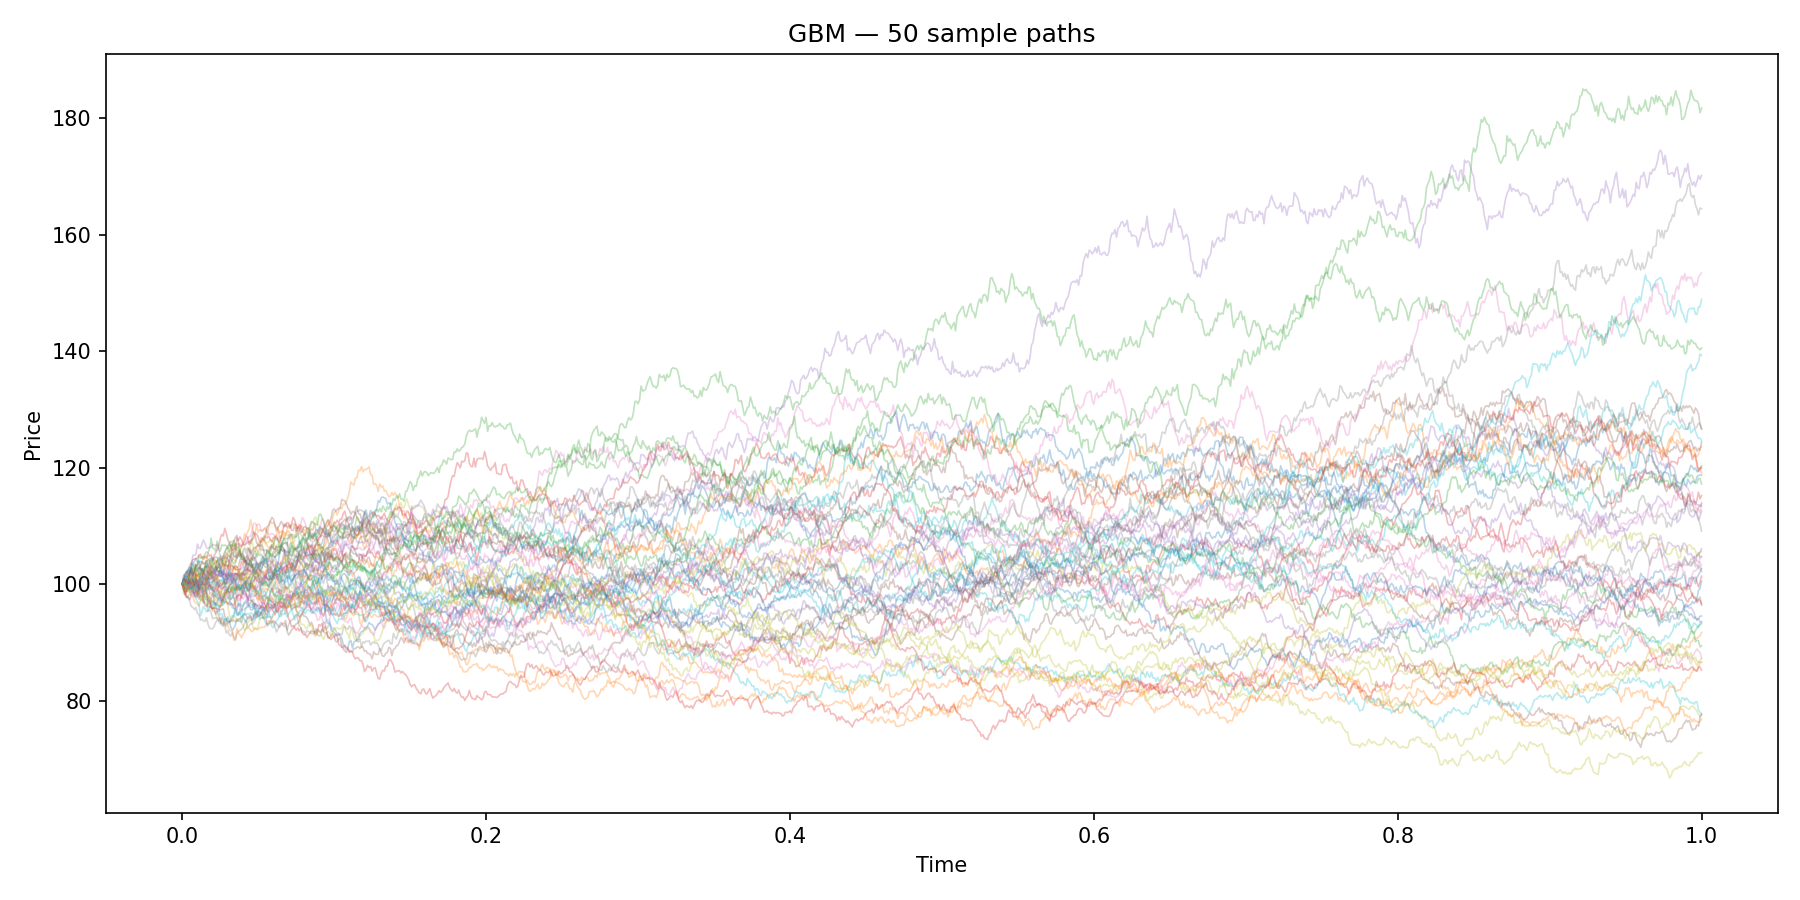
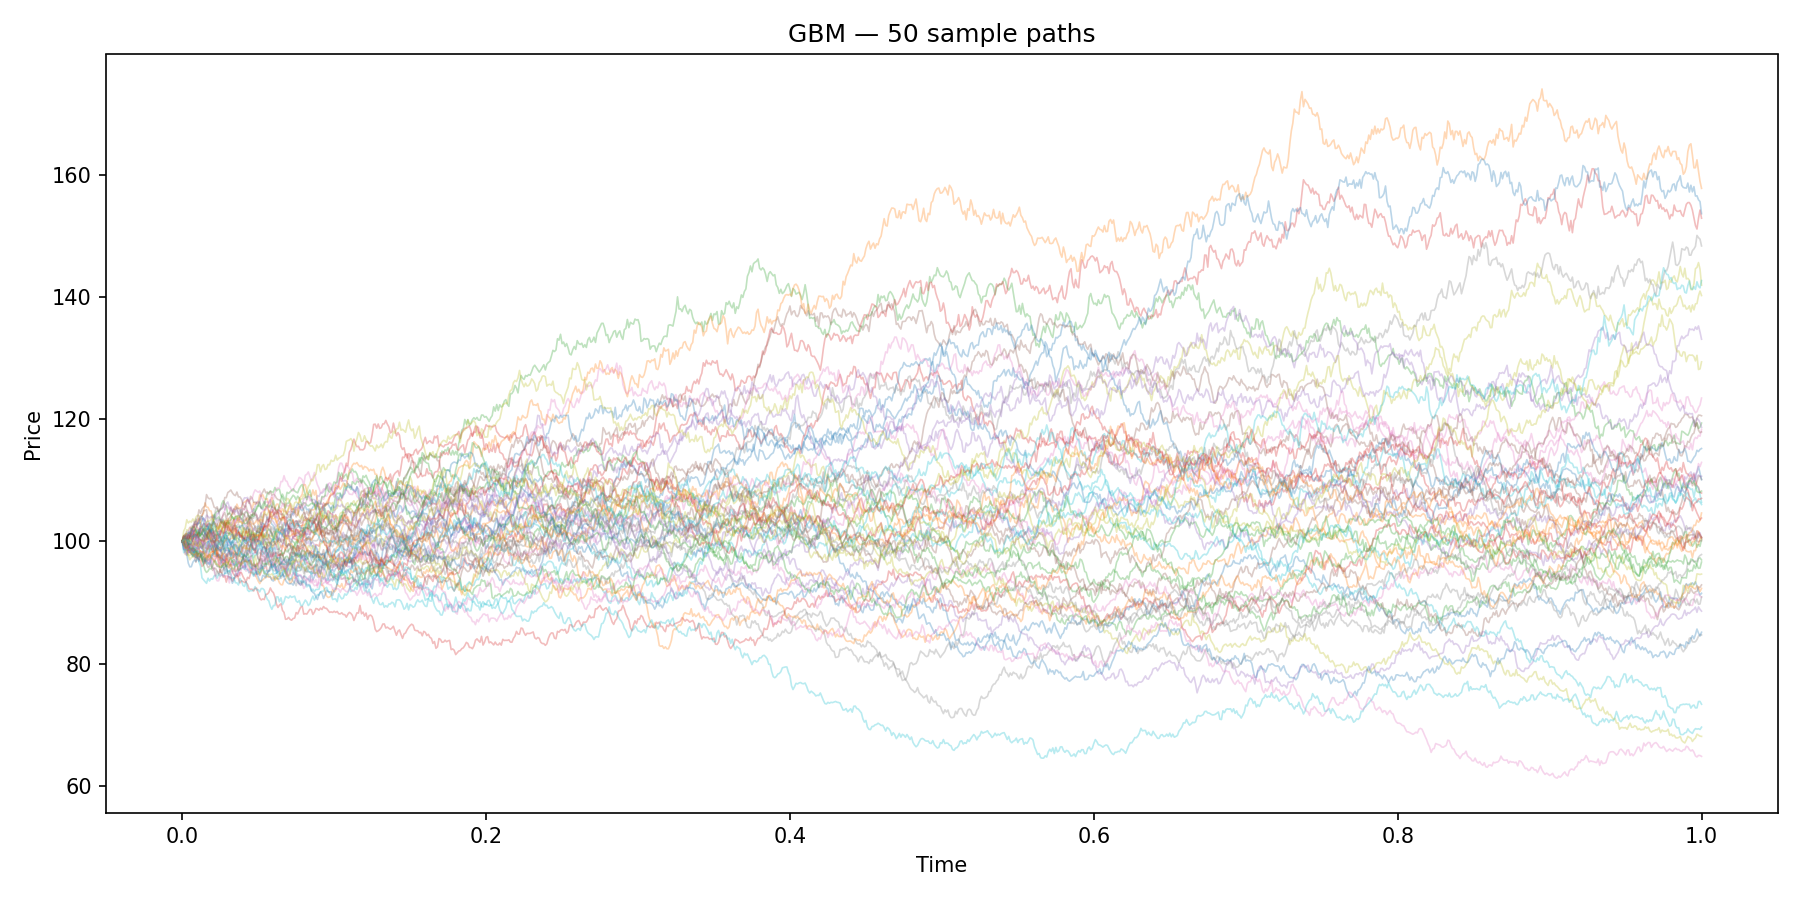
docs: correct DQN-vs-LSM analysis — mis-set discount factor (gamma=0.99/step ≈ 253%/yr vs r=5%) and undiscounted eval metric; update README, fix module names and typos

diff --git a/README.md b/README.md
@@ -2,7 +2,7 @@
 
 This project started as an attempt to understand something I kept encountering at the edges of my coursework: the idea that stochastic calculus and reinforcement learning are, in some deep sense, talking about the same thing. 
 
-I want to be honest about where I started. To say I had a working knowledge of GBM and martingales is an overstatement— my knowledge was no more than several semi-successful Clause prompts asking to explain Chapter 5 of Xinfeng Zhou's "A Practical Guide to Quanititaive Finance Interviews" in **even more** detail. I'd implemented basic Q-learning agents in college coursework previously, but I'd never thought carefully about *why* importance sampling works in off-policy RL, or what it has to do with changing probability measures. This project is my attempt to close that gap.
+I want to be honest about where I started. To say I had a working knowledge of GBM and martingales is an overstatement— my knowledge was no more than several semi-successful Claude prompts asking to explain Chapter 5 of Xinfeng Zhou's "A Practical Guide to Quantitative Finance Interviews" in **even more** detail. I'd implemented basic Q-learning agents in college coursework previously, but I'd never thought carefully about *why* importance sampling works in off-policy RL, or what it has to do with changing probability measures. This project is my attempt to close that gap.
 
 ---
 
@@ -13,6 +13,8 @@ The project is organized into five modules.
 1. Implementation of Brownian motion and Geometric Brownian Motion using NumPy. I then implemented the Ornstein-Uhlenbeck process, which required a time-step loop because it has no clean closed form. I wish I could promise that my experiments became sharper and sharper, but the contrast between the two plots — GBM wandering off to infinity versus OU oscillating around its long-run mean — is the clearest visual in the entire project.
 
 2. From there I built a Gymnasium environment for American option pricing and trained a DQN agent to solve the optimal stopping problem. The agent's job is simple: at each time step, decide whether to exercise the put or keep holding. The DQN recovered 93.3% of the Longstaff-Schwartz benchmark price ($5.62 vs $6.02) without ever being told the structure of the problem. It learned the stopping rule purely from experience. Unfortunately, this did not feel like the 'win' it likely should have. I'd prefer to do better than the LS benchmark, but I guess you can't win them all.
+
+   **Update (Aug 2026):** a code review found the real culprit behind the gap, and it wasn't undertraining. I had set `gamma=0.99` *per daily step* — an implied discount rate of −252·ln(0.99) ≈ 253%/yr, roughly 50× the model's r = 5%. The agent's suspiciously early exercise (mean episode length ~9 steps of 252) was it *optimally* solving the problem I actually gave it: one where waiting costs ~1% a day. On top of that, the evaluation compared undiscounted DQN payoffs against LSM's discounted price — two different objects. Dated correction and rerun queue in `experiments/dqn_vs_lsm/RESULTS.md`. It turns out you can win some of them back by rereading your own code.
 
 3. The hedging module— a continuous-action Gymnasium environment where a PPO agent learns how many shares to hold to neutralize option risk. The benchmark is Black-Scholes delta hedging. After 500k training timesteps, the PPO agent had a mean P&L of -0.37 compared to Black-Scholes's -2.15, but a standard deviation of 9.08 versus 1.24. The RL agent's higher mean is flattering but misleading— what matters for a hedger is variance, and by that measure Black-Scholes wins by a factor of seven. Ouch.
 
@@ -26,7 +28,7 @@ The project is organized into five modules.
 
 A few results stood out.
 
-The DQN's Q-function, at convergence, approximates the Snell envelope— the smallest supermartingale dominating the payoff function. I didn't set out to verify this formally, but the numerical agreement with Longstaff-Schwartz is consistent with it. The agent learned something tangible about the structure of optimal stopping without being told what that structure was. For someone still new to deep learning (me), this still brings about a certain astonishment.
+The DQN's Q-function, at convergence, approximates the Snell envelope— the smallest supermartingale dominating the payoff function. I didn't set out to verify this formally, but the numerical agreement with Longstaff-Schwartz is consistent with it — though per the Aug 2026 correction in Experiment 04, with the mis-set discount factor the agent was approximating the Snell envelope of a far more impatient problem than the one LSM solves. The agent learned something tangible about the structure of optimal stopping without being told what that structure was. For someone still new to deep learning (me), this still brings about a certain astonishment.
 
 The Girsanov verification confirmed that $\mathbb{E}[L_T] = 1.0005$ at 100,000 paths, and that the reweighted mean of $W_T$ under $\mathbb{Q}$ (-0.2523) matches the exact analytical value (-0.2500) to within 1%. These are not interesting numbers on their own, but they matter because they confirm the implementation is correct before using it to price anything.
 
@@ -45,13 +47,15 @@ The somewhat deflating punchline is that neither of our agents actually computes
 ---
 
 ## What I'd Do Next
-Three things, in order of how much they irk me.
+Four things, in order of how much they irk me.
 
-1. The PPO agent optimizes for mean P&L, which is the wrong objective for a hedger. Variance is what kills you! Adding $-\lambda \cdot |\text{P\&L}|$ to the reward is a straightforward fix I didn't get to. I suspect it would meaningfully close the CVaR gap.
+1. Fix the DQN's objective: `gamma = exp(-r*dt)` instead of 0.99, and discount evaluation payoffs by $e^{-r\tau}$ so the comparison to LSM is apples-to-apples. A 50× discounting error is the most instructive bug I've shipped — the agent did exactly what I asked, which is the problem.
 
-2. The replay buffer in DQN is doing a lot of work it shouldn't have to do. Computing LT for each stored trajectory and reweighting explicitly would be a cleaner implementation of what the buffer approximates crudely. Whether it actually helps convergence is an open question.
+2. The PPO agent optimizes for mean P&L, which is the wrong objective for a hedger. Variance is what kills you! Adding $-\lambda \cdot |\text{P\&L}|$ to the reward is a straightforward fix I didn't get to. I suspect it would meaningfully close the CVaR gap.
 
-3. Finally, the whole project is built under Black-Scholes assumptions. Not only does this hand the analytical benchmark an unfair advantage, if there is one thing I've learned from Dan Rasmussen, it is to be weary of utopian frameworks. No transaction costs, constant volatility, daily rebalancing. Add costs and the RL agent's flexibility might start to tip the scales the other direction.
+3. The replay buffer in DQN is doing a lot of work it shouldn't have to do. Computing LT for each stored trajectory and reweighting explicitly would be a cleaner implementation of what the buffer approximates crudely. Whether it actually helps convergence is an open question.
+
+4. Finally, the whole project is built under Black-Scholes assumptions. Not only does this hand the analytical benchmark an unfair advantage, if there is one thing I've learned from Dan Rasmussen, it is to be wary of utopian frameworks. No transaction costs, constant volatility, daily rebalancing. Add costs and the RL agent's flexibility might start to tip the scales the other direction.
 
 ---
 
@@ -72,11 +76,11 @@ brownian-rl/
 │   └── ou.py             # Ornstein-Uhlenbeck process
 ├── envs/
 │   ├── american_option.py  # Gymnasium env for optimal stopping
-│   └── hedging_env.py      # Gymnasium env for delta hedging
+│   └── hedging.py          # Gymnasium env for delta hedging
 ├── agents/
 │   ├── dqn.py              # DQN training
 │   ├── ppo.py              # PPO training and evaluation
-│   ├── longstaff_schwartz.py  # LSM benchmark
+│   ├── ls.py               # Longstaff-Schwartz (LSM) benchmark
 │   ├── delta_hedge.py      # Black-Scholes delta and price
 │   └── girsanov.py         # Radon-Nikodym derivative
 ├── risk/

diff --git a/experiments/dqn_vs_lsm/RESULTS.md b/experiments/dqn_vs_lsm/RESULTS.md
@@ -23,7 +23,31 @@ The 6.7% gap is attributable to two factors. First, 100k training timesteps is i
 
 Notably, the gap varies across runs due to the stochastic nature of both methods — LSM carries its own Monte Carlo error (roughly ±0.1 at 10,000 paths) and DQN payoffs have high variance (std ~9.3 from Experiment 03). The 6.7% gap should therefore be interpreted as an upper bound on true suboptimality — with more training timesteps and more evaluation episodes, it narrows.
 
+## Correction (2026-08-02, code review)
+
+The attribution above is partly wrong. Re-deriving the discount structure exposed two
+specification bugs that confound the comparison:
+
+1. **The DQN's discount factor is mis-set.** Training used `gamma=0.99` *per step* at 252
+   steps/year, an implied continuously-compounded rate of −252·ln(0.99) ≈ **2.53/yr — roughly
+   50× the model's r = 0.05**. The correct per-step factor is e^(−r·dt) ≈ 0.99980. The
+   "very early exercise" flagged above (ep_len_mean = 8.91) is therefore not evidence of
+   undertraining: the agent was *optimally* solving a problem in which waiting costs ~1% per
+   day. The policy learned the objective it was given; the objective was wrong.
+
+2. **The evaluation metric and the benchmark are different objects.** The eval loop appends
+   raw undiscounted payoffs, E[payoff(τ)], while LSM reports the discounted price
+   E[e^(−rτ)·payoff(τ)]. With r = 0.05 and T = 1, that wedge can be up to ~5% by itself
+   (smaller here because exercise happens early).
+
+Until both are fixed, the headline "DQN recovers 93.3% of LSM" is not interpretable as a
+measure of policy suboptimality.
+
 ## Open questions
 
-- [ ] Train DQN for 500k timesteps and measure gap reduction — does it
-      converge toward LSM as predicted?
+- [ ] Fix `gamma = exp(-r*dt)` in `agents/dqn.py` and retrain — does the early-exercise
+      pathology (ep_len_mean ≈ 9) disappear?
+- [ ] Discount eval rewards by e^(−r·τ·dt) in `experiments/dqn_vs_lsm/run.py` so both
+      columns of the table are prices under the same measure and numeraire.
+- [ ] Then rerun the original question: train for 500k timesteps and measure gap reduction —
+      does it converge toward LSM as predicted?
